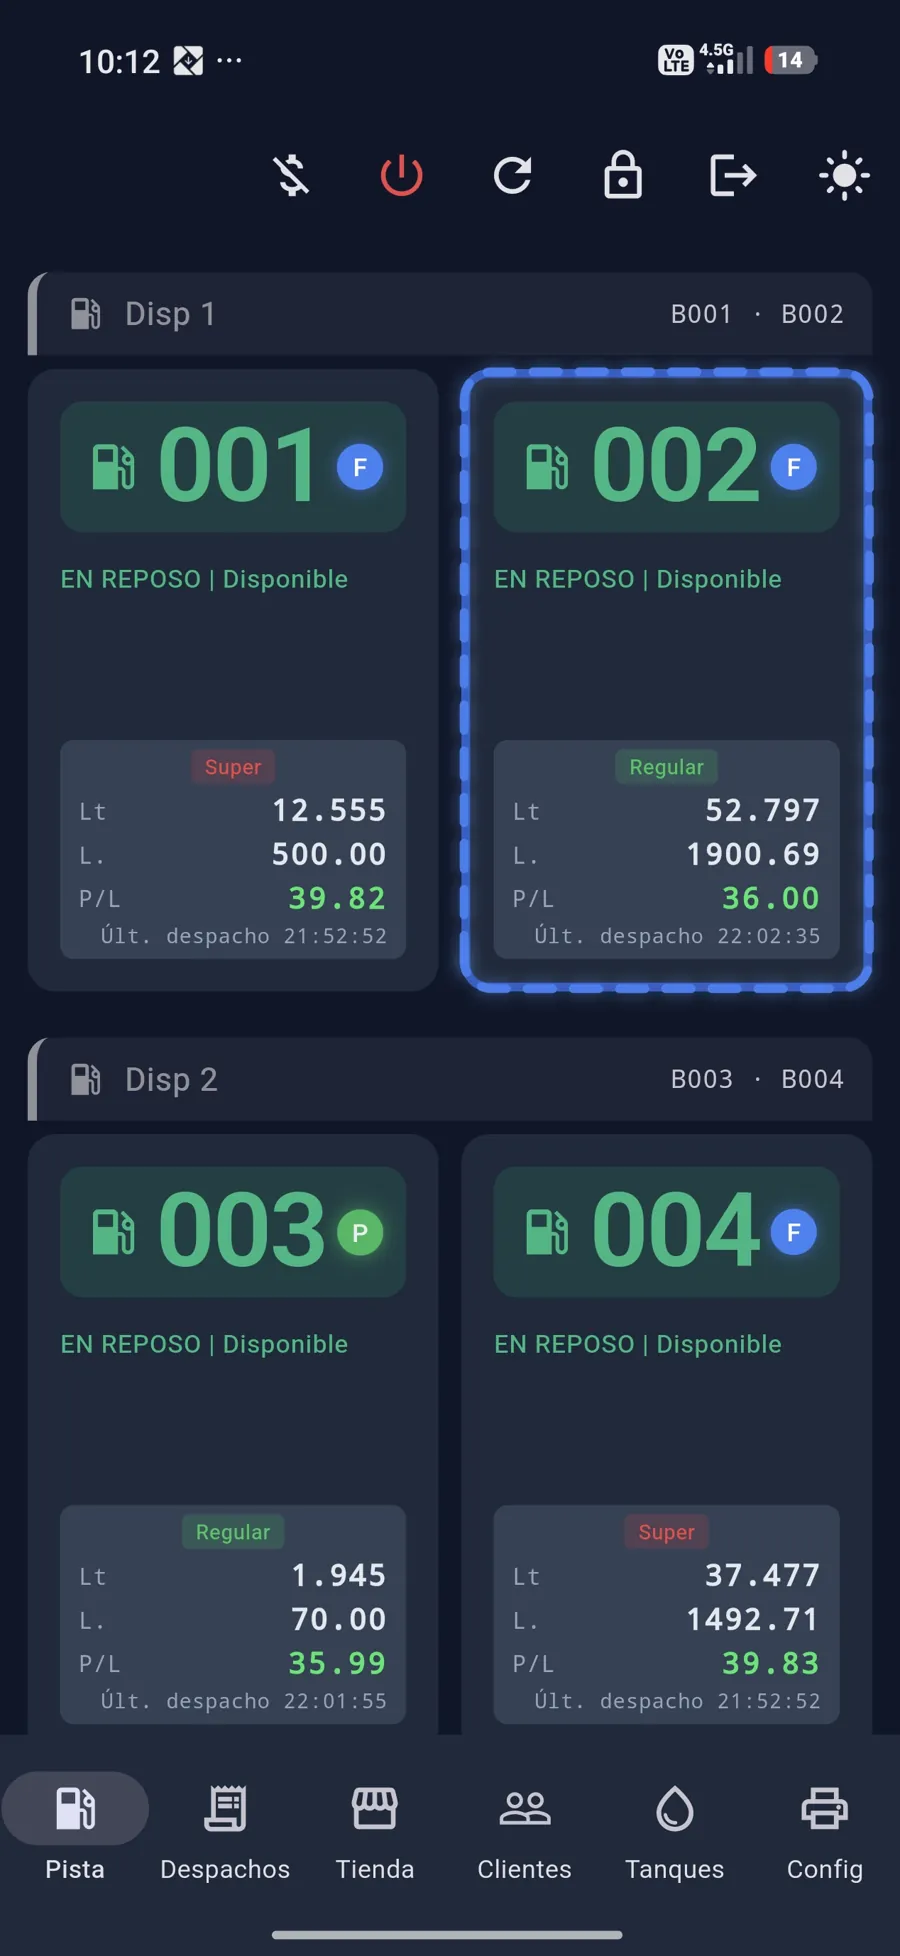
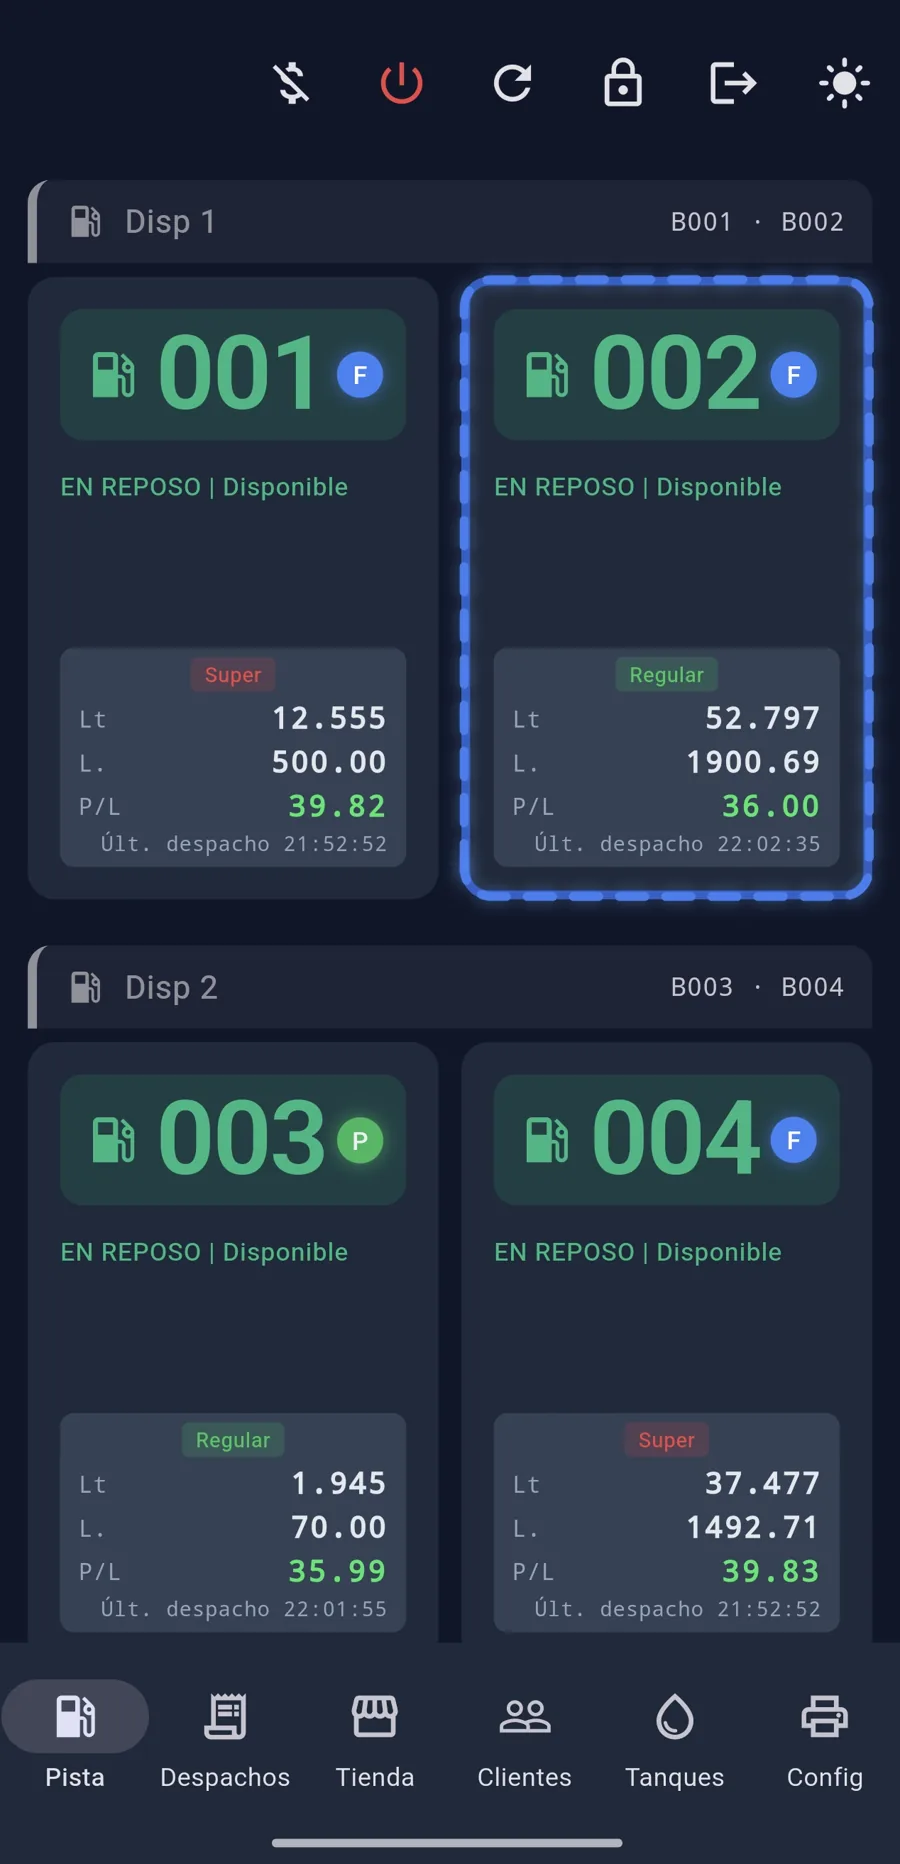
fix(gas.hn): recorta la barra de estado del teléfono en el mockup del app
Pedido del CEO: quitar el top con la hora y la batería del Android. Se recortan 130 px
del top de ambas capturas (barra de estado fuera; la app empieza en su fila de
acciones). Nuevas imágenes 900x1864; ?v=2 para romper el cache inmutable de webp.

Claude-Session: https://claude.ai/code/session_01AhLBdmogjvPJCrvVEhZScU

diff --git a/index.html b/index.html
@@ -324,8 +324,8 @@
     </div>
     <div class="reveal">
       <div class="phones">
-        <div class="phone phone--back"><img src="/shots/app-tanques.webp" width="900" height="1956" alt="Gas+ app · niveles de tanques en vivo con ATG"></div>
-        <div class="phone phone--front"><img src="/shots/app-pista.webp" width="900" height="1956" alt="Gas+ app · control de pista en vivo, estado de cada bomba"></div>
+        <div class="phone phone--back"><img src="/shots/app-tanques.webp?v=2" width="900" height="1864" alt="Gas+ app · niveles de tanques en vivo con ATG"></div>
+        <div class="phone phone--front"><img src="/shots/app-pista.webp?v=2" width="900" height="1864" alt="Gas+ app · control de pista en vivo, estado de cada bomba"></div>
       </div>
     </div>
   </div>
